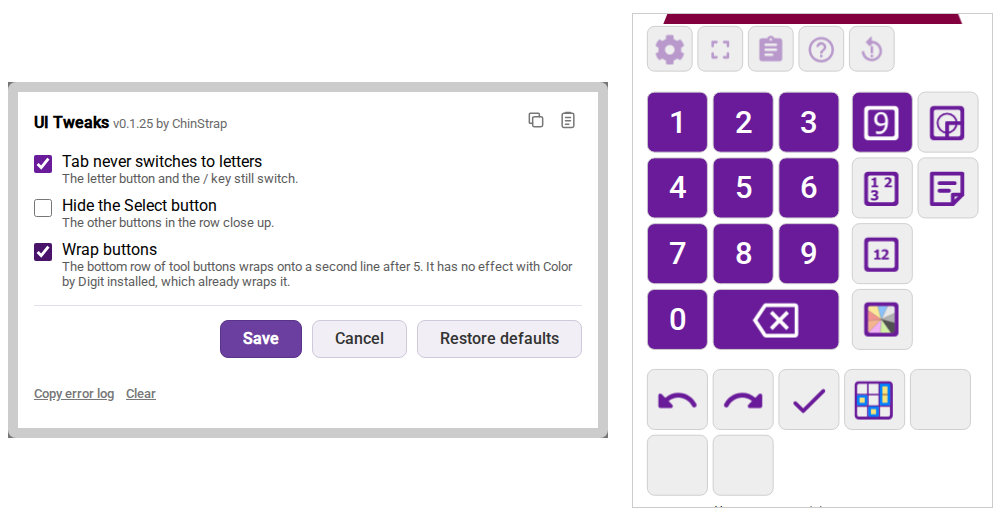
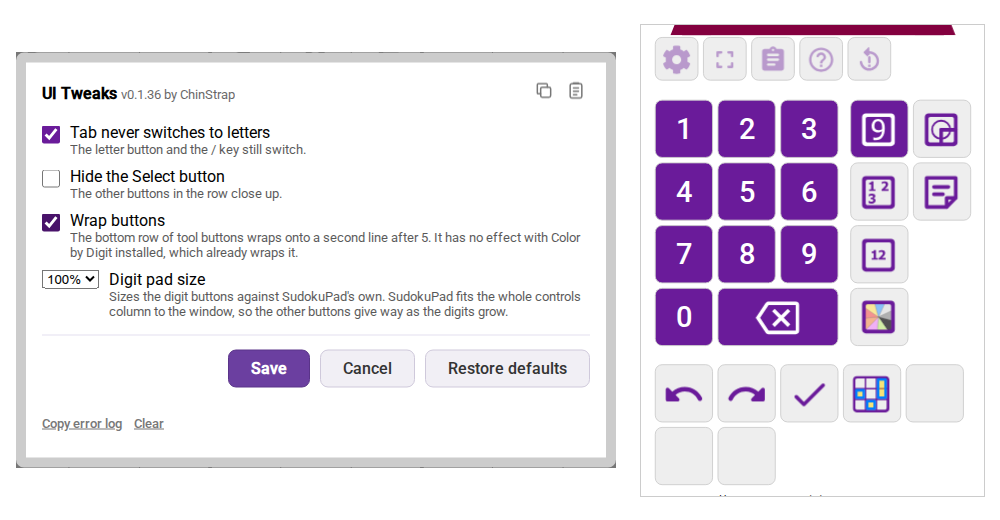
UI Tweaks: a Digit pad size setting (80% to 150%)
Sizes the digit buttons in rem and refits SudokuPad's controls column.

Closes #1045

Changed region(s): [[0.0, 0.0, 1.0, 0.9538], [0.651, 0.7077, 0.93, 0.8308], [0.651, 0.9231, 0.992, 0.9846]]

diff --git a/ui-tweaks.user.js b/ui-tweaks.user.js
@@ -1,7 +1,7 @@
 // ==UserScript==
 // @name         SudokuPad UI Tweaks
 // @namespace    https://github.com/caneff/sudokupad-scripts
-// @version      0.1.35
+// @version      0.1.36
 // @author       ChinStrap
 // @description  Small changes to SudokuPad's buttons, each switched on or off in a settings dialog: Tab never switches the number pad to letters, hide the Select button, and wrap the bottom row of buttons after five.
 // @match        https://sudokupad.app/*
@@ -21,7 +21,7 @@
   'use strict'
 
   // GM_info is absent without Tampermonkey, so the script cannot read @version; keep this equal to it.
-  const VERSION = '0.1.35'
+  const VERSION = '0.1.36'
   const STYLE_ID = 'ui-tweaks-style'
   // Each option's saved boolean is kept under its own key, which is also its name in Copy settings.
   const OPTIONS = [
@@ -30,6 +30,11 @@
     { id: 'wrapButtons', key: 'UiTweaks_wrapButtons', label: 'Wrap buttons', hint: 'The bottom row of tool buttons wraps onto a second line after 5. It has no effect with Color by Digit installed, which already wraps it.', default: false }
   ]
   const savedBoolean = (data) => (typeof data === 'boolean' ? data : undefined)
+  // The digit pad's size as a percent of SudokuPad's own, saved under its own key.
+  const DIGIT_PAD_SIZES = [80, 90, 100, 110, 120, 130, 140, 150]
+  const DIGIT_PAD_DEFAULT = 100
+  const DIGIT_PAD_KEY = 'UiTweaks_digitPad'
+  const savedDigitPad = (data) => (DIGIT_PAD_SIZES.includes(data) ? data : undefined)
 
   // <lib:plain>
   // Generated from lib/plain.js; edit that file and run node sync-lib.js.
@@ -93,7 +98,10 @@
   /* eslint-enable no-unused-vars */
   // </lib:settings-table>
 
-  const OPTION_ROWS = OPTIONS.map((option) => ({ name: option.id, key: option.key, fallback: option.default, read: savedBoolean }))
+  const OPTION_ROWS = [
+    ...OPTIONS.map((option) => ({ name: option.id, key: option.key, fallback: option.default, read: savedBoolean })),
+    { name: 'digitPad', key: DIGIT_PAD_KEY, fallback: DIGIT_PAD_DEFAULT, read: savedDigitPad }
+  ]
   const DEFAULT_OPTIONS = tableDefaults(OPTION_ROWS)
 
   const savedOptions = (store) => readTable(OPTION_ROWS, store)
@@ -139,11 +147,24 @@
   function isHeldTabToStop (event, { toolOn, dialogOpen }) {
     return event.key === TAB_KEY && event.repeat === true && toolOn && !dialogOpen
   }
+  // SudokuPad sizes every controls button 4rem square and the digit font 2rem (1.4rem in the corner and centre tools), and refits #controls to its box on each resize, so a size in rem is refitted with the rest of the column.
+  const DIGIT_BUTTON_REM = 4
+  const DIGIT_FONT_REM = 2
+  const DIGIT_FONT_SMALL_REM = 1.4
+  function digitPadCss (percent) {
+    if (percent === DIGIT_PAD_DEFAULT) return false
+    const scaled = (value) => rem(value * percent / 100)
+    const side = `${scaled(DIGIT_BUTTON_REM)}rem`
+    return [
+      `.controls-input button.digit { flex: 0 0 ${side} !important; width: ${side} !important; height: ${side} !important; font-size: ${scaled(DIGIT_FONT_REM)}rem !important; }`,
+      `.tool-corner .controls-input button.digit, .tool-centre .controls-input button.digit { font-size: ${scaled(DIGIT_FONT_SMALL_REM)}rem !important; }`
+    ].join('\n')
+  }
   const HIDE_SELECT_CSS = `${BOTTOM_ROW} [data-control="select"] { display: none !important; }`
 
   // Tab adds no rule: it works on the letter tool's key list.
   function buildCss (options) {
-    return [options.hideSelect && HIDE_SELECT_CSS, options.wrapButtons && BOTTOM_ROW_CSS].filter(Boolean).join('\n')
+    return [options.hideSelect && HIDE_SELECT_CSS, options.wrapButtons && BOTTOM_ROW_CSS, digitPadCss(options.digitPad)].filter(Boolean).join('\n')
   }
 
   // <lib:write-style>
@@ -857,7 +878,7 @@
   const { saved, tab, settings: settingsEntry } = guard.features
 
   if (typeof module !== 'undefined' && module.exports) {
-    module.exports = { VERSION, OPTIONS, DEFAULT_OPTIONS, savedOptions, saveOptions, pastedOptions, READERS, copiedSettings, pastedSettings, buildCss, withInertTab, ignoreKey, isHeldTabToStop, lackingInternals, FEATURES }
+    module.exports = { VERSION, OPTIONS, DIGIT_PAD_SIZES, DEFAULT_OPTIONS, savedOptions, saveOptions, pastedOptions, READERS, copiedSettings, pastedSettings, buildCss, withInertTab, ignoreKey, isHeldTabToStop, lackingInternals, FEATURES }
   }
   if (typeof document === 'undefined') return
 
@@ -884,10 +905,15 @@
     })
   }
 
+  // SudokuPad fits #controls to its box only on a resize, so a size change is not seen until one.
+  const refitControls = () => window.dispatchEvent(new Event('resize'))
+
   function applyOptions (next) {
+    const padChanged = next.digitPad !== options.digitPad
     options = next
     writeStyle(STYLE_ID, buildCss(next))
     applyTab(next.tab)
+    if (padChanged) refitControls()
   }
 
   const CLASS_PREFIX = 'ui-tweaks-'
@@ -896,6 +922,7 @@
   const DIALOG_CSS = [
     `#${DIALOG_ID} .${CLASS_PREFIX}option { display: flex !important; align-items: flex-start; gap: 10px; margin: 10px 0; cursor: pointer; }`,
     `#${DIALOG_ID} .${CLASS_PREFIX}option input { position: static !important; margin: 3px 0 0 !important; flex: none; width: 18px !important; height: 18px !important; cursor: pointer; }`,
+    `#${DIALOG_ID} .${CLASS_PREFIX}option select { position: static !important; margin: 0 !important; flex: none; width: auto !important; height: auto !important; cursor: pointer; }`,
     `#${DIALOG_ID} .${CLASS_PREFIX}option small { display: block; opacity: .65; }`
   ].join('\n')
   const dialogs = guard.dialogsFor(settingsEntry)
@@ -910,6 +937,10 @@
 
   const optionRow = (option) =>
     `<label class="${CLASS_PREFIX}option"><input type="checkbox" data-option="${option.id}"><span>${option.label}<small>${option.hint}</small></span></label>`
+
+  const PAD_SELECT = 'select[data-option="digitPad"]'
+  const digitPadRow = () =>
+    `<label class="${CLASS_PREFIX}option"><select data-option="digitPad">${DIGIT_PAD_SIZES.map((size) => `<option value="${size}">${size}%</option>`).join('')}</select><span>Digit pad size<small>Sizes the digit buttons against SudokuPad's own. SudokuPad fits the whole controls column to the window, so the other buttons give way as the digits grow.</small></span></label>`
 
   function openDialog () {
     const draft = { ...options }
@@ -937,19 +968,27 @@
           applyOptions(next)
           OPTION_ROWS.filter((row) => row.key in values).forEach((row) => {
             draft[row.name] = next[row.name]
-            box(row.name).checked = next[row.name]
+            if (row.name === 'digitPad') padSelect.value = String(next.digitPad)
+            else box(row.name).checked = next[row.name]
           })
         }
       },
       restore: () => restoreDefaults()
     })
     if (!body) return
-    const restoreDefaults = () => OPTIONS.forEach((option) => {
-      draft[option.id] = DEFAULT_OPTIONS[option.id]
-      box(option.id).checked = draft[option.id]
-    })
-    body.innerHTML = OPTIONS.map(optionRow).join('')
+    const restoreDefaults = () => {
+      OPTIONS.forEach((option) => {
+        draft[option.id] = DEFAULT_OPTIONS[option.id]
+        box(option.id).checked = draft[option.id]
+      })
+      draft.digitPad = DEFAULT_OPTIONS.digitPad
+      padSelect.value = String(draft.digitPad)
+    }
+    body.innerHTML = OPTIONS.map(optionRow).join('') + digitPadRow()
     const box = (id) => body.querySelector(`input[data-option="${id}"]`)
+    const padSelect = body.querySelector(PAD_SELECT)
+    padSelect.value = String(draft.digitPad)
+    padSelect.addEventListener('change', (event) => { draft.digitPad = Number(event.target.value) })
     OPTIONS.forEach((option) => {
       box(option.id).checked = draft[option.id]
       box(option.id).addEventListener('change', (event) => { draft[option.id] = event.target.checked })

diff --git a/test/ui-tweaks.test.js b/test/ui-tweaks.test.js
@@ -4,10 +4,10 @@ const assert = require('node:assert/strict')
 const fs = require('node:fs')
 const path = require('node:path')
 const { fakeStore } = require('./fake-store.js')
-const { OPTIONS, DEFAULT_OPTIONS, savedOptions, saveOptions, READERS, copiedSettings, pastedSettings, buildCss, pastedOptions, withInertTab, ignoreKey, isHeldTabToStop, lackingInternals, FEATURES } = require('../ui-tweaks.user.js')
+const { OPTIONS, DIGIT_PAD_SIZES, DEFAULT_OPTIONS, savedOptions, saveOptions, READERS, copiedSettings, pastedSettings, buildCss, pastedOptions, withInertTab, ignoreKey, isHeldTabToStop, lackingInternals, FEATURES } = require('../ui-tweaks.user.js')
 
-test('the defaults: Tab never switches to letters is on, the other two are off', () => {
-  assert.deepEqual(DEFAULT_OPTIONS, { tab: true, hideSelect: false, wrapButtons: false })
+test('the defaults: Tab never switches to letters is on, the other two are off, the digit pad is at 100%', () => {
+  assert.deepEqual(DEFAULT_OPTIONS, { tab: true, hideSelect: false, wrapButtons: false, digitPad: 100 })
   assert.deepEqual(OPTIONS.map((o) => o.id), ['tab', 'hideSelect', 'wrapButtons'])
 })
 
@@ -16,9 +16,9 @@ test('savedOptions: nothing saved reads as the defaults', () => {
 })
 
 test('savedOptions: each saved boolean wins over its default, the others keep theirs', () => {
-  assert.deepEqual(savedOptions(fakeStore({ UiTweaks_tab: false })), { tab: false, hideSelect: false, wrapButtons: false })
-  assert.deepEqual(savedOptions(fakeStore({ UiTweaks_hideSelect: true })), { tab: true, hideSelect: true, wrapButtons: false })
-  assert.deepEqual(savedOptions(fakeStore({ UiTweaks_wrapButtons: true })), { tab: true, hideSelect: false, wrapButtons: true })
+  assert.deepEqual(savedOptions(fakeStore({ UiTweaks_tab: false })), { ...DEFAULT_OPTIONS, tab: false })
+  assert.deepEqual(savedOptions(fakeStore({ UiTweaks_hideSelect: true })), { ...DEFAULT_OPTIONS, hideSelect: true })
+  assert.deepEqual(savedOptions(fakeStore({ UiTweaks_wrapButtons: true })), { ...DEFAULT_OPTIONS, wrapButtons: true })
 })
 
 test('savedOptions: a saved value that is not a boolean reads as the default', () => {
@@ -28,15 +28,15 @@ test('savedOptions: a saved value that is not a boolean reads as the default', (
 
 test('saveOptions keeps every option as a boolean under its own key, and savedOptions reads them back', () => {
   const store = fakeStore()
-  const chosen = { tab: false, hideSelect: true, wrapButtons: true }
+  const chosen = { tab: false, hideSelect: true, wrapButtons: true, digitPad: 130 }
   saveOptions(store, chosen)
-  assert.deepEqual(store.data, { UiTweaks_tab: false, UiTweaks_hideSelect: true, UiTweaks_wrapButtons: true })
+  assert.deepEqual(store.data, { UiTweaks_tab: false, UiTweaks_hideSelect: true, UiTweaks_wrapButtons: true, UiTweaks_digitPad: 130 })
   assert.deepEqual(savedOptions(store), chosen)
 })
 
 test('saveOptions leaves no key for an option at its default, and removes one saved earlier', () => {
   const store = fakeStore({ UiTweaks_tab: false, UiTweaks_hideSelect: true })
-  saveOptions(store, { tab: true, hideSelect: true, wrapButtons: false })
+  saveOptions(store, { ...DEFAULT_OPTIONS, hideSelect: true })
   assert.deepEqual(store.data, { UiTweaks_hideSelect: true })
 })
 
@@ -51,7 +51,7 @@ test('the storage keys are UiTweaks_ names', () => {
 })
 
 test('copiedSettings: the options in force, defaults included', () => {
-  assert.deepEqual(JSON.parse(copiedSettings(fakeStore({ UiTweaks_hideSelect: true, Other_key: 1 }))), { UiTweaks_tab: true, UiTweaks_hideSelect: true, UiTweaks_wrapButtons: false })
+  assert.deepEqual(JSON.parse(copiedSettings(fakeStore({ UiTweaks_hideSelect: true, Other_key: 1 }))), { UiTweaks_tab: true, UiTweaks_hideSelect: true, UiTweaks_wrapButtons: false, UiTweaks_digitPad: 100 })
 })
 
 test('a paste keeps booleans under this script\'s keys and skips the rest', () => {
@@ -72,18 +72,18 @@ test('buildCss: Wrap buttons caps the bottom row at five buttons', () => {
 })
 
 test('buildCss: both rules together; Tab adds none', () => {
-  const css = buildCss({ tab: false, hideSelect: true, wrapButtons: true })
+  const css = buildCss({ ...DEFAULT_OPTIONS, tab: false, hideSelect: true, wrapButtons: true })
   assert.equal(css.split('\n').length, 2)
   assert.match(css, /display: none/)
   assert.match(css, /max-width: 21\.6rem/)
 })
 
 test('pastedOptions changes only the pasted options, whatever else is ticked in the dialog', () => {
-  const saved = { tab: true, hideSelect: false, wrapButtons: false }
-  assert.deepEqual(pastedOptions(saved, { UiTweaks_tab: false }), { tab: false, hideSelect: false, wrapButtons: false })
-  assert.deepEqual(pastedOptions(saved, { UiTweaks_hideSelect: true, UiTweaks_wrapButtons: true }), { tab: true, hideSelect: true, wrapButtons: true })
+  const saved = { ...DEFAULT_OPTIONS }
+  assert.deepEqual(pastedOptions(saved, { UiTweaks_tab: false }), { ...saved, tab: false })
+  assert.deepEqual(pastedOptions(saved, { UiTweaks_hideSelect: true, UiTweaks_wrapButtons: true, UiTweaks_digitPad: 80 }), { ...saved, hideSelect: true, wrapButtons: true, digitPad: 80 })
   assert.deepEqual(pastedOptions(saved, {}), saved)
-  assert.deepEqual(saved, { tab: true, hideSelect: false, wrapButtons: false }, 'the options given are left as they were')
+  assert.deepEqual(saved, DEFAULT_OPTIONS, 'the options given are left as they were')
 })
 
 const toggle = () => {}
@@ -191,4 +191,44 @@ test('the hints: the Select button is named as its tooltip names it, and Wrap bu
   assert.equal(byId.hideSelect.label, 'Hide the Select button')
   assert.doesNotMatch(byId.hideSelect.label + byId.hideSelect.hint, /Toggle Selection/)
   assert.match(byId.wrapButtons.hint, /no effect with Color by Digit installed/)
+})
+
+test('the digit pad sizes are the eight percentages 80 to 150, and 100 is the default', () => {
+  assert.deepEqual(DIGIT_PAD_SIZES, [80, 90, 100, 110, 120, 130, 140, 150])
+  assert.equal(DEFAULT_OPTIONS.digitPad, 100)
+})
+
+test('savedOptions: each of the eight saved sizes is read back', () => {
+  for (const size of DIGIT_PAD_SIZES) assert.equal(savedOptions(fakeStore({ UiTweaks_digitPad: size })).digitPad, size, String(size))
+})
+
+test('savedOptions: a missing or unreadable digit pad size reads as 100', () => {
+  for (const bad of [undefined, null, 'big', '120', 95, 0, -100, 160, 100.5, NaN, true, {}, [120]]) {
+    assert.equal(savedOptions(fakeStore({ UiTweaks_digitPad: bad })).digitPad, 100, String(bad))
+  }
+  assert.equal(savedOptions(fakeStore()).digitPad, 100)
+})
+
+test('a paste takes only the eight sizes for the digit pad', () => {
+  const ok = pastedSettings(JSON.stringify({ UiTweaks_digitPad: 150 }), READERS)
+  assert.deepEqual(ok, { values: { UiTweaks_digitPad: 150 }, skipped: 0 })
+  const bad = pastedSettings(JSON.stringify({ UiTweaks_digitPad: 155 }), READERS)
+  assert.deepEqual(bad, { values: {}, skipped: 1 })
+})
+
+test('saveOptions keeps a chosen digit pad size under UiTweaks_digitPad, and 100 leaves no key', () => {
+  const store = fakeStore()
+  saveOptions(store, { ...DEFAULT_OPTIONS, digitPad: 80 })
+  assert.deepEqual(store.data, { UiTweaks_digitPad: 80 })
+  saveOptions(store, DEFAULT_OPTIONS)
+  assert.deepEqual(store.data, {})
+})
+
+test('buildCss: 100% adds no rule; any other size sizes the digit buttons in rem from SudokuPad\'s own 4rem', () => {
+  assert.equal(buildCss({ ...DEFAULT_OPTIONS, digitPad: 100 }), '')
+  const css = buildCss({ ...DEFAULT_OPTIONS, digitPad: 150 })
+  assert.match(css, /width: 6rem !important/)
+  assert.match(css, /height: 6rem !important/)
+  assert.doesNotMatch(css, /px|scale/)
+  assert.match(buildCss({ ...DEFAULT_OPTIONS, digitPad: 80 }), /width: 3\.2rem !important/)
 })

diff --git a/site/index.html b/site/index.html
@@ -188,7 +188,7 @@
   </section>
   <section class="row">
     <div>
-      <div class="slide-frame"><img src="https://raw.githubusercontent.com/caneff/sudokupad-scripts/main/docs/research/ui-tweaks/ui-tweaks.png?v=8504542" alt="The UI Tweaks settings dialog with its three options, beside SudokuPad's controls with the bottom row of buttons wrapped onto a second line after five" width="1000" height="520"></div>
+      <div class="slide-frame"><img src="https://raw.githubusercontent.com/caneff/sudokupad-scripts/main/docs/research/ui-tweaks/ui-tweaks.png?v=03227b1" alt="The UI Tweaks settings dialog with its four options, beside SudokuPad's controls with the bottom row of buttons wrapped onto a second line after five" width="1000" height="520"></div>
     </div>
     <div class="row-text">
       <h2>UI Tweaks</h2>
@@ -197,6 +197,7 @@
         <li><b>Tab never switches to letters</b> (on at first): a stray Tab no longer switches the number pad to letters. The letter button and the / key still do.</li>
         <li><b>Hide the Select button</b> (off at first): takes the button out of the bottom row, and the other buttons close up.</li>
         <li><b>Wrap buttons</b> (off at first): the bottom row of tool buttons wraps onto a second line after five. It has no effect with Color by Digit installed, which already wraps it.</li>
+        <li><b>Digit pad size</b> (100% at first): makes the digit buttons smaller or larger, from 80% to 150%. SudokuPad fits the whole controls column to the window, so the other buttons give way as the digits grow, and the digits end up about 20% larger at 150% in a 1366x768 window.</li>
       </ul>
       <p class="actions"><a class="install" href="https://raw.githubusercontent.com/caneff/sudokupad-scripts/main/ui-tweaks.user.js">Install<span class="visually-hidden"> UI Tweaks</span></a></p>
     </div>

diff --git a/test/specs/spec-687-closing.test.js b/test/specs/spec-687-closing.test.js
@@ -72,8 +72,8 @@ test('#700: identifiers match the glossary and no stored key changed', () => {
   assert.match(source('pen-tool-extras'), /function renderLineModeButton/)
   assert.equal('KEYS' in uiTweaks, false, 'UI Tweaks has no KEYS export')
   const store = fakeStore()
-  uiTweaks.saveOptions(store, { tab: false, hideSelect: true, wrapButtons: true })
-  assert.deepEqual(Object.keys(store.data).sort(), ['UiTweaks_hideSelect', 'UiTweaks_tab', 'UiTweaks_wrapButtons'], 'UI Tweaks\' stored keys')
+  uiTweaks.saveOptions(store, { tab: false, hideSelect: true, wrapButtons: true, digitPad: 80 })
+  assert.deepEqual(Object.keys(store.data).sort(), ['UiTweaks_digitPad', 'UiTweaks_hideSelect', 'UiTweaks_tab', 'UiTweaks_wrapButtons'], 'UI Tweaks\' stored keys')
   assert.equal(darkPage.DATA_KEY, 'DarkPage_color', 'Dark Page\'s stored key')
   assert.match(source('auto-rules-resizer'), /writeStyle\(`\$\{ID\}-style`, STYLE\)/, 'Auto Rules Resizer adds its style through its copied writeStyle')
   assert.doesNotMatch(source('auto-rules-resizer'), /function addStyle \(/)

diff --git a/docs/research/ui-tweaks/digit-pad-size.md b/docs/research/ui-tweaks/digit-pad-size.md
@@ -1,0 +1,21 @@
+# Digit pad size: how SudokuPad lays out the controls (2026-11-18)
+
+Read from SudokuPad's `Framework.app.resize` on sudokupad.app (#1045), and measured with every script installed.
+
+- `#controls` is placed in a box beside the board: `(window width - board size)` wide and `board size` tall, less a margin. On each `resize`, `app.resize` clears
+  the column's transform, measures its natural size, and sets `transform: translate(...) scale(s)` with `s` the largest scale that fits the box, capped at 1.3.
+- The refit runs only on a window `resize`. A stylesheet change alone leaves the old scale on a column that now overflows, so UI Tweaks dispatches a `resize` after it writes its style.
+- Every `.controls button` is `4rem` square (`flex: 0 0 4rem`), a digit's font is `2rem` (`1.4rem` in the corner and centre tools). The rows are `1 2 3`, `4 5 6`, `7 8 9`, `0` + Delete.
+- Text Anywhere and the pen tool restyle `.digit` for their own tools (Text Anywhere: `4rem x 2.5rem !important`). The size rule has less specificity than Text Anywhere's, so it keeps its own buttons.
+
+So any growth of the column, digits only or the whole column, is shrunk back by the refit when the fit is the limit (1280x720 and 1366x768: the column fills the box's height). Sizing the whole column in rem cancels
+out entirely there. Sizing the digits only does not: the digits take a larger share of the column and the other buttons shrink with the refit. Measured digit width, px, at 80% / 100% / 150%:
+
+| window | 80% | 100% | 150% |
+|---|---|---|---|
+| 1280x720 | 50.8 | 63.6 | 76.3 (1.20x) |
+| 1366x768 | 54.4 | 68.0 | 81.7 (1.20x) |
+| 1920x1080 | 66.5 | 83.2 | 116.7 (1.40x) |
+
+At 1920x1080 the column starts at the 1.3 cap, so there is room to grow. At every size the column ends inside its box with nothing overlapping, because SudokuPad does the fitting. The choice: size the digits
+only, in rem, and let SudokuPad refit. The setting is a size relative to the column, not an absolute size. A CSS `scale` past the box (Nell Gwyn's approach) would give 1.5x, but pushes the column off the page unless hand-tuned margins move it.

diff --git a/README.md b/README.md
@@ -54,11 +54,12 @@ In Cell mode, every cell holding a digit, and every empty cell whose center mark
 
 ### UI Tweaks
 
-Its dialog has three options, each applied at once on Save and kept in the browser. Restore defaults sets the boxes back to how they start, as a draft that Cancel drops:
+Its dialog has four options, each applied at once on Save and kept in the browser. Restore defaults sets the boxes back to how they start, as a draft that Cancel drops:
 
 - **Tab never switches to letters** (on at first): SudokuPad binds both `/` and Tab to the letter toggle and saves the mode, so a stray Tab left the number pad on letters after a refresh. During play, Tab does what it did before, minus the toggle, and a held Tab is stopped too. The letter button and `/` still toggle, and Tab still moves focus in dialogs. It works whenever you turn the letter tool on in settings.
 - **Hide the Select button** (off at first): hides SudokuPad's Select button in the bottom row, and the other buttons close up.
 - **Wrap buttons** (off at first): the bottom row of tool buttons wraps onto a second line after five. Color by Digit already caps that row at five on its own, so with it installed this option changes nothing.
+- **Digit pad size** (100% at first): makes the digit buttons smaller or larger, from 80% to 150% in steps of 10%. SudokuPad fits the whole controls column to the window, so the other buttons give way as the digits grow, and the digits end up about 20% larger at 150% in a 1366x768 window.
 
 If a SudokuPad update changes what the Tab option, the saved options or the settings entry needs, that part logs a console warning and turns itself off, and a bar at the bottom of the page says so. Hide the Select button and Wrap buttons are style rules only, with nothing of SudokuPad's to break.
 
